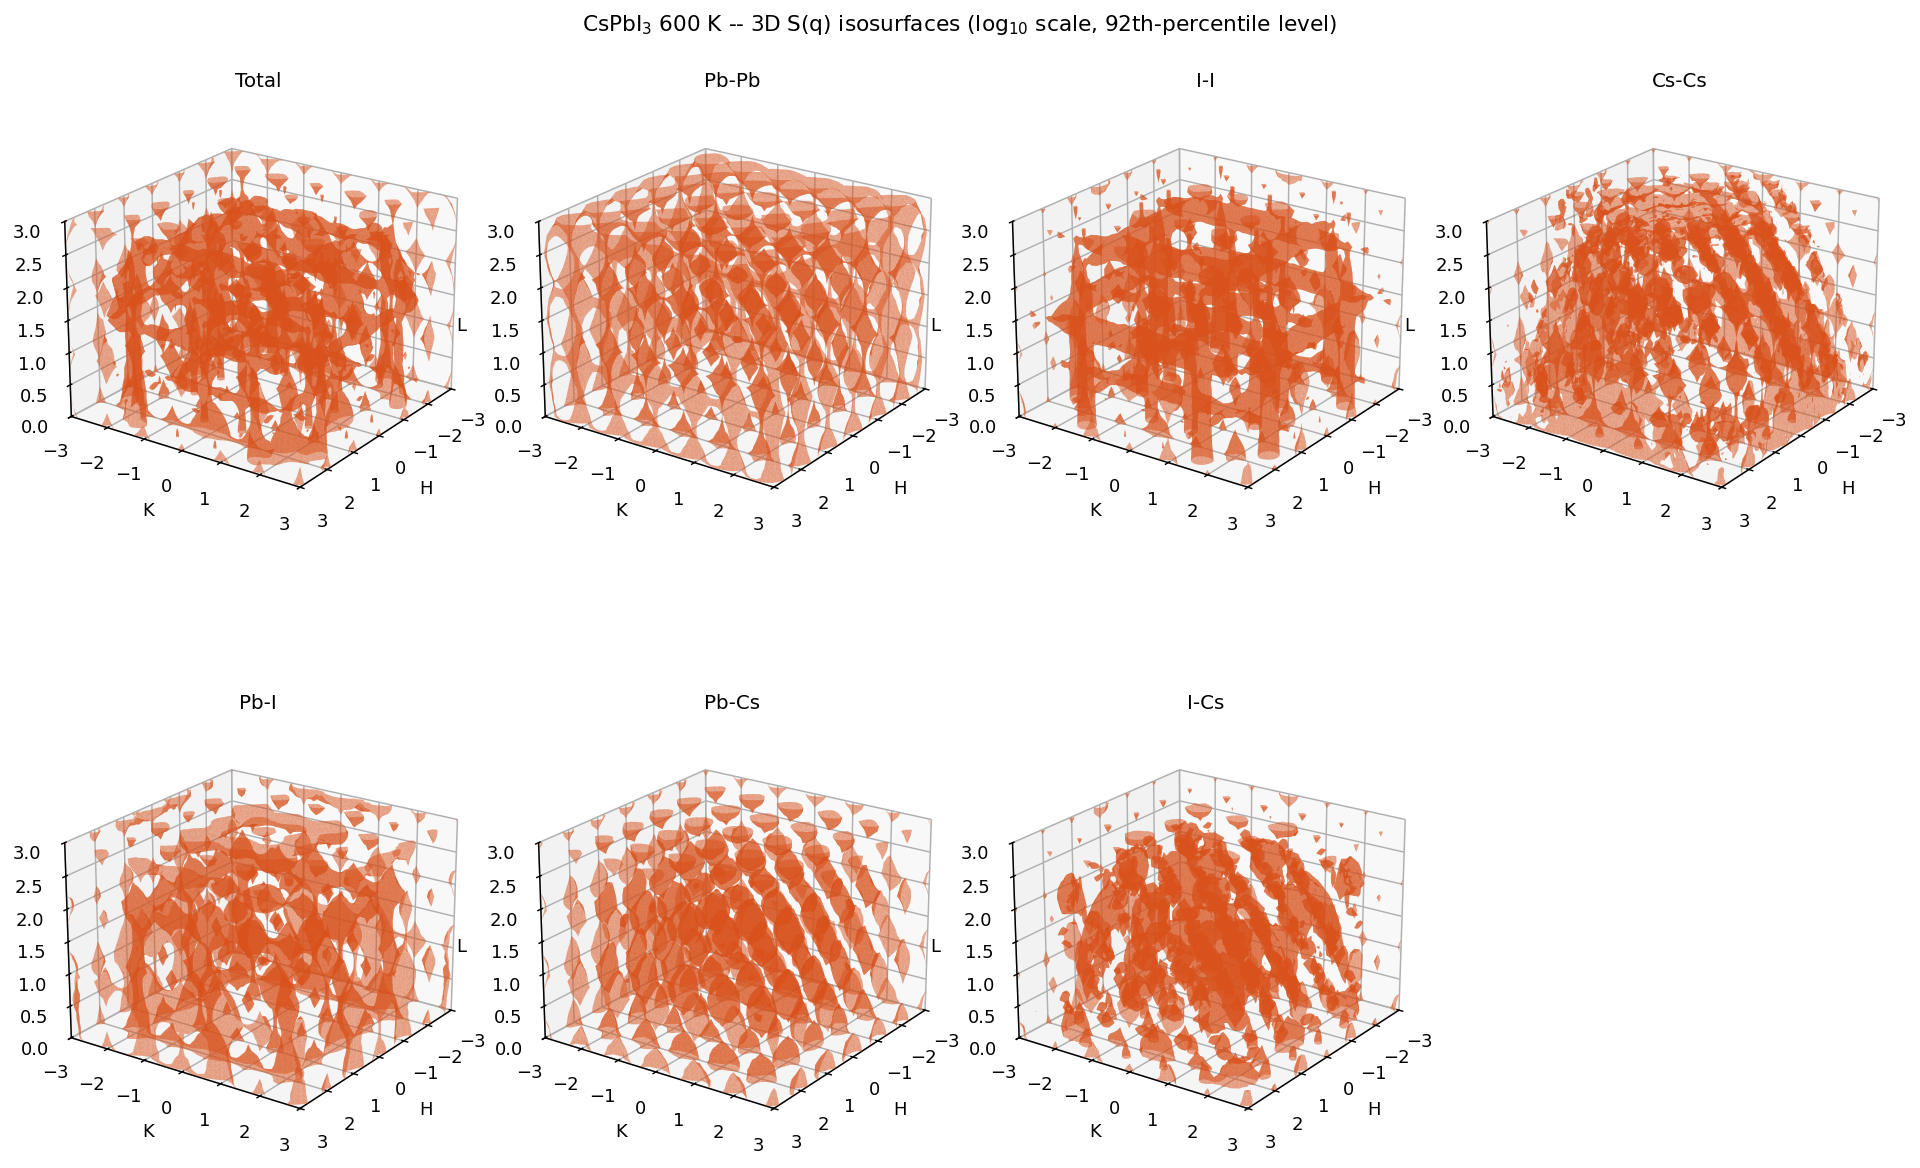
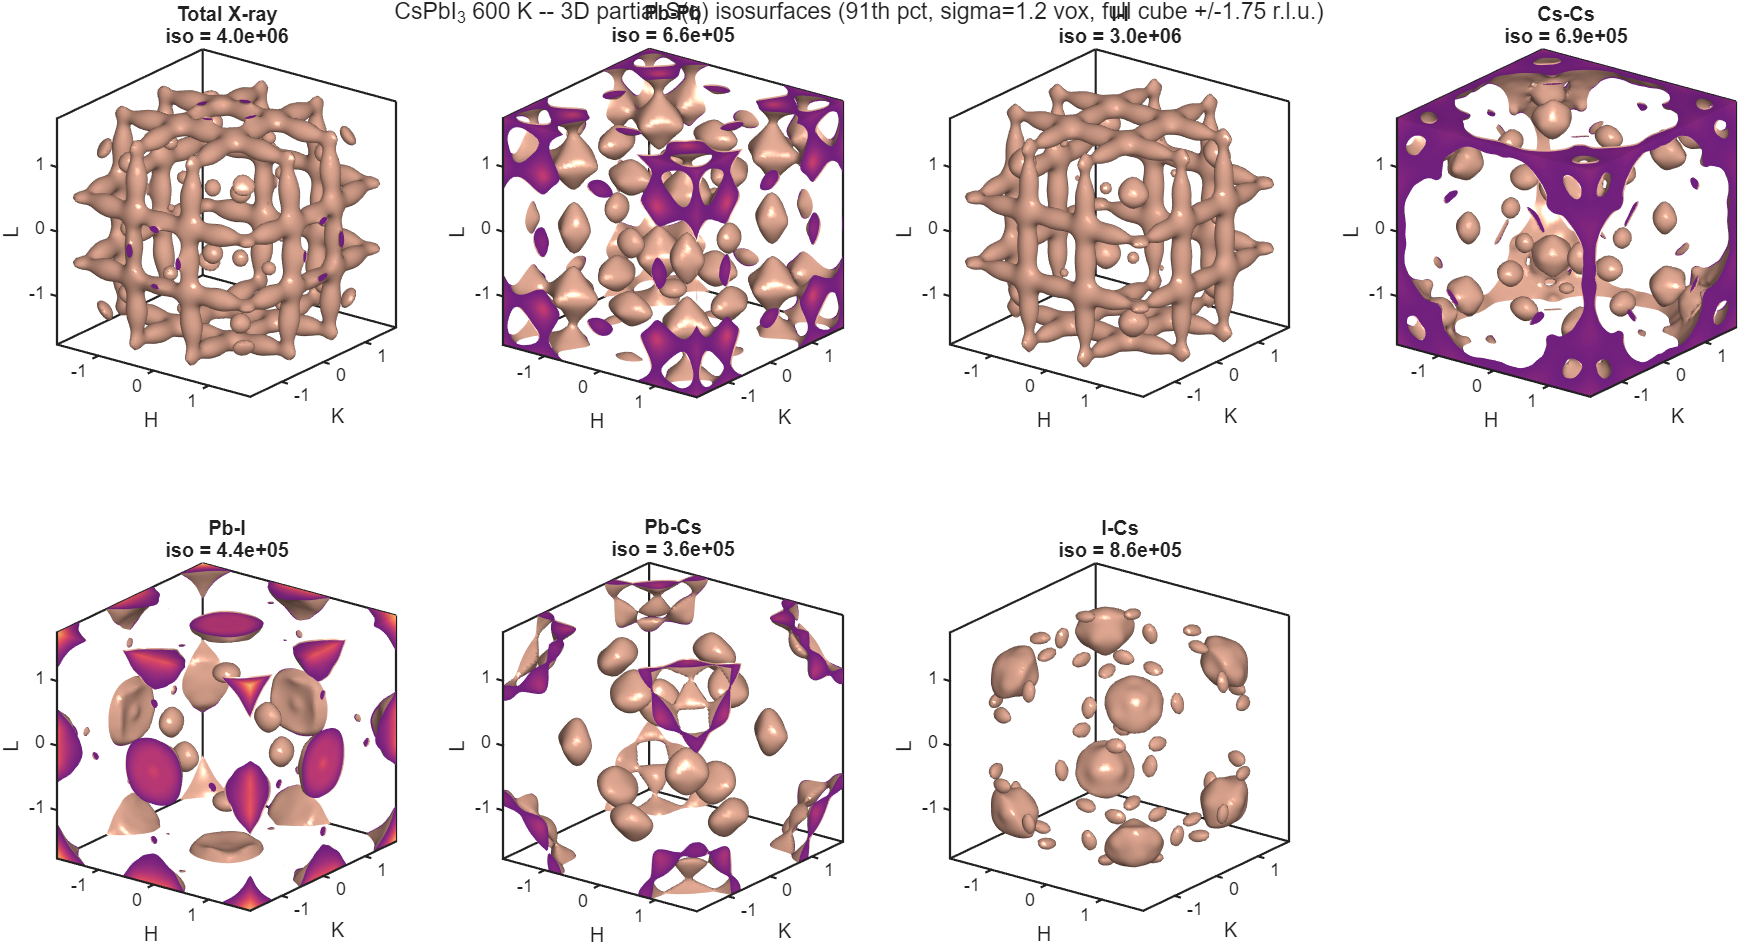
sq3d_isosurfaces: full-cube PNG + 30 s rotation GIF
Replace half-cube (L >= 0) figure with full cube H, K, L in [-1.75, +1.75]
r.l.u. for all 7 X-ray partials at the 91st percentile. Negative L filled
by Friedel symmetry. New 180-frame rotating GIF (~30 s loop) renders the
same view animated.

diff --git a/README.md b/README.md
@@ -146,9 +146,14 @@ Eight L-planes from the same single 1.7-min compute:
 
 ![Eight L-planes from one compute](docs/figures/sq3d_L_plane_gallery.png)
 
-3D isosurface rendering of the partial S(q) cube:
+3D isosurface rendering of the partial S(q) cube
+(full cube `H, K, L ∈ [-1.75, +1.75]` r.l.u., 91st-percentile isovalue):
 
-![3D partial S(q) isosurfaces, six partials](docs/figures/sq3d_isosurfaces.png)
+![3D partial S(q) isosurfaces, seven partials](docs/figures/sq3d_isosurfaces.png)
+
+Rotating animation of the same isosurfaces:
+
+![Rotating 3D partial S(q) isosurfaces](docs/figures/sq3d_isosurfaces_rotation.gif)
 
 For comparison, computing the same eight L-planes via direct atomic
 Fourier sum (numba JIT, single L plane at a time) on the same hardware